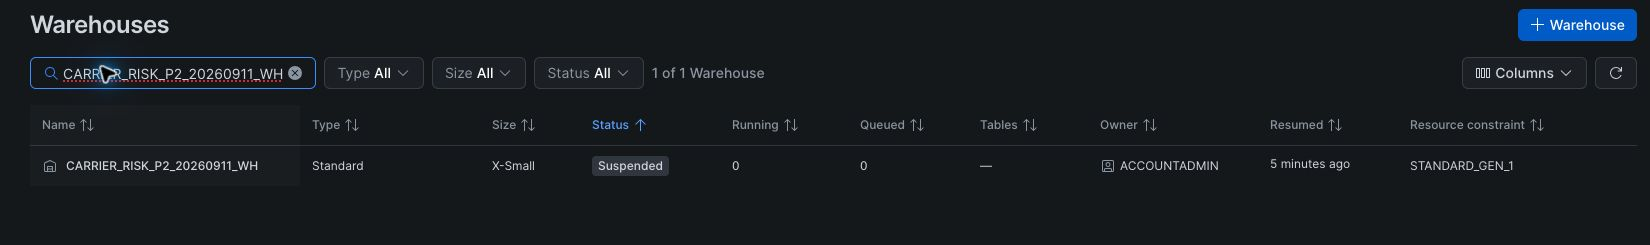
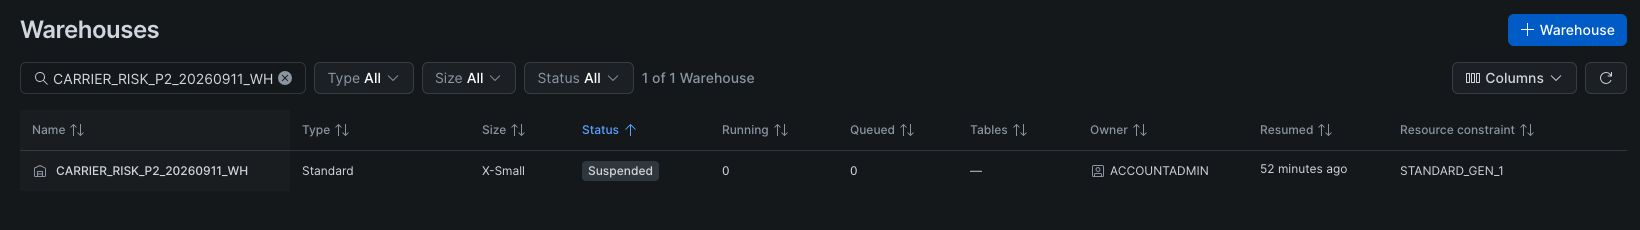
docs: recapture warehouse evidence without pointer

diff --git a/docs/evidence/phase-2/README.md b/docs/evidence/phase-2/README.md
@@ -22,10 +22,11 @@ separately in the live SQL results; it is not visible in this screenshot.
 
 The filtered console shows the dedicated generation-1 X-Small warehouse suspended
 with zero running and queued queries after the real one-row dbt seed acceptance
-check. This screenshot establishes the stopped state at capture time. The actual
+check and final killed-process check. This screenshot establishes the stopped state at capture time. The actual
 guard, failure, and killed-process results are recorded in the verification
-record; this image is not evidence of a full project dbt build. A later final
-killed-process check also verified suspension programmatically.
+record; this image is not evidence of a full project dbt build. The final
+killed-process check also verified suspension programmatically. The console was
+recaptured with the pointer outside the frame; the displayed state is unaltered.
 
 | Required capture | What it must demonstrate | Status |
 |---|---|---|

diff --git a/docs/phase-2-verification.md b/docs/phase-2-verification.md
@@ -97,7 +97,7 @@ cleared the claim, and a stale transaction identifier was rejected. All four che
 passed in 33.790 seconds. This does not establish full project model, history,
 contract, replay, or temporal-test parity. The warehouse was suspended and writer
 locks were absent after each successful proof. A console screenshot records the
-stopped state following the dbt seed check.
+stopped state following the dbt seed and final killed-process checks.
 
 These runs bring the conservative cumulative project estimate to approximately
 $0.85 before credits, including allowances for failed attempts. This is not a
